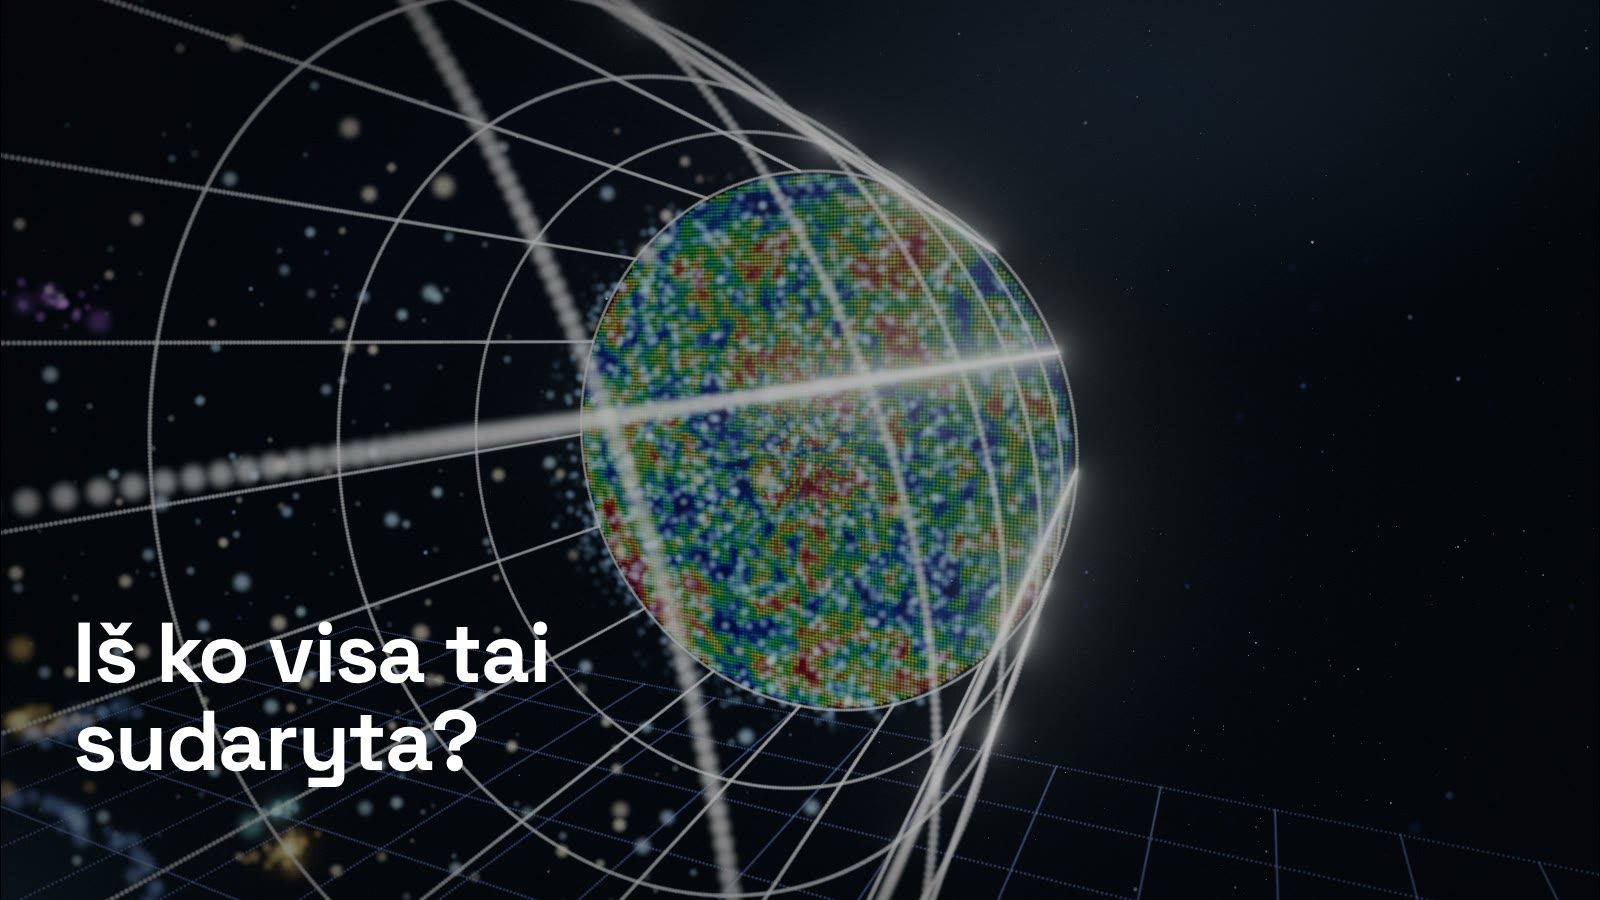
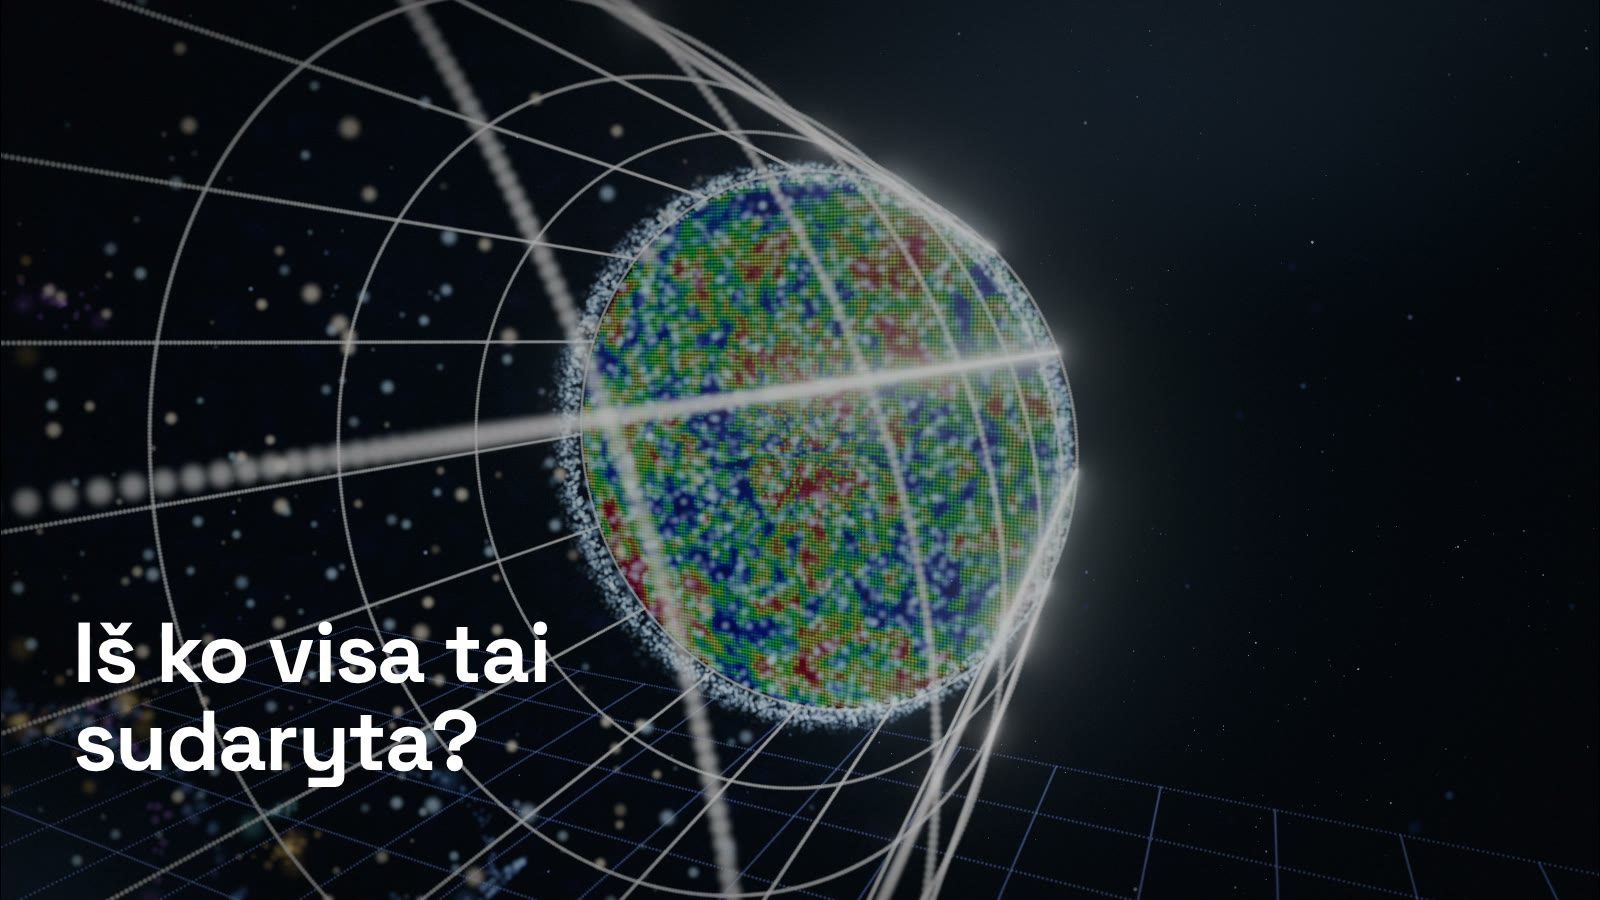
feat(innoday): funnel polish — a blue-violet haze inside, twice the galaxies and larger spirals, the CMB disk vivid at any angle (dimmed by the viewing angle so overlapping grains keep their colours), the afterglow as a bright ring, the caption a step smaller
Claude-Session: https://claude.ai/code/session_01UQ1VwcvdvqFoSGjGgE4EUj

diff --git a/talks/2026_10_00_Innoday/setup/funnel.js b/talks/2026_10_00_Innoday/setup/funnel.js
@@ -29,8 +29,8 @@ const hash = (n) => { const s = Math.sin(n * 12.9898 + 78.233) * 43758.5453; ret
 const gauss = (n) => { let v = 0; for (let k = 0; k < 4; k++) v += hash(n * 7.31 + k * 1.37); return (v - 2) / 1.15 }
 
 const VERT = /* glsl */ `
-attribute vec3 aColor; attribute float aSize, aSeed, aTw, aAlpha, aFlare;
-uniform float uTime, uPixelRatio, uSize, uAlpha, uFlare;
+attribute vec3 aColor; attribute float aSize, aSeed, aTw, aAlpha, aFlare, aDisk;
+uniform float uTime, uPixelRatio, uSize, uAlpha, uFlare, uDisk;
 varying vec3 vColor; varying float vAlpha;
 void main() {
   vec4 mv = modelViewMatrix * vec4(position, 1.0);
@@ -38,7 +38,7 @@ void main() {
   float tw = 1.0 - aTw * (0.5 - 0.5 * sin(uTime * (0.7 + aSeed * 1.9) + aSeed * 40.0));
   // capped at 48 px, fading out within a unit of the camera (the camera flies through)
   gl_PointSize = min(uPixelRatio * uSize * aSize * tw * (72.0 / max(-mv.z, 0.1)), 48.0 * uPixelRatio);
-  vColor = aColor; vAlpha = uAlpha * aAlpha * tw * smoothstep(0.25, 1.0, -mv.z) * mix(1.0, uFlare, aFlare);
+  vColor = aColor; vAlpha = uAlpha * aAlpha * tw * smoothstep(0.25, 1.0, -mv.z) * mix(1.0, uFlare, aFlare) * mix(1.0, uDisk, aDisk);
 }`
 const FRAG = /* glsl */ `
 varying vec3 vColor; varying float vAlpha;
@@ -106,7 +106,12 @@ function buildFunnel(o, ctx) {
     add(0.02, u * r, v * r, [0.6, 0.85, 0.5], 1.15, 0.05, 1, 1)
   }
   const capLast = pts.length
-  // the afterglow: a pale blue sheet just after the disk, fading
+  // the afterglow: a bright pale-blue ring at the wall just after the disk
+  for (let i = 0; i < 5200; i++) {
+    const s = 0.3 + 0.45 * Math.pow(hash(i * 6.1), 1.2), r = R(s) * (0.94 + 0.06 * hash(i * 3.9)), t = hash(i * 7.3) * Math.PI * 2
+    add(s, r * Math.cos(t), r * Math.sin(t), [0.7, 0.85, 1], 1.5, 0.1, 1.2 * (1 - (s - 0.3) / 0.45))
+  }
+  // and a faint pale-blue sheet across it
   for (let i = 0; i < 2600; i++) {
     const s = 0.15 + 1.2 * Math.pow(hash(i * 8.3), 1.5), r = R(s) * 0.97 * Math.sqrt(hash(i * 2.2)), t = hash(i * 9.1) * Math.PI * 2
     add(s, r * Math.cos(t), r * Math.sin(t), [0.66, 0.82, 1], 3.0, 0.12, 1.0 * (1 - (s - 0.15) / 1.2))
@@ -121,8 +126,15 @@ function buildFunnel(o, ctx) {
     const s = 5 + hash(i * 9.1) * 3, r = R(s) * 0.88 * Math.sqrt(hash(i * 6.3)), t = hash(i * 8.7) * Math.PI * 2
     add(s, r * Math.cos(t), r * Math.sin(t), hash(i) > 0.5 ? [0.75, 0.88, 1] : [1, 0.95, 0.85], 2.2, 0.6, 1)
   }
+  // the body: a faint blue-violet haze of fine grains inside the bell, thicker toward the mouth
+  for (let i = 0; i < 16000; i++) {
+    const q = Math.pow(hash(i * 2.17), 0.75), s = 5 + (L - 5.2) * q
+    const r = R(s) * 0.95 * Math.sqrt(hash(i * 5.31)), t = hash(i * 8.17) * Math.PI * 2
+    const c = hash(i * 1.71) < 0.55 ? [0.38, 0.45, 0.95] : [0.6, 0.4, 0.9]
+    add(s, r * Math.cos(t), r * Math.sin(t), c, 2.6, 0.05, 0.24 + 0.32 * q)
+  }
   // galaxies: colourful clusters, some larger spirals, denser and brighter toward the mouth
-  const G = o.galaxies ?? 1000
+  const G = o.galaxies ?? 2000
   const palette = [[0.55, 0.72, 1], [1, 1, 1], [1, 0.82, 0.45], [0.78, 0.6, 1], [0.6, 0.9, 1], [1, 0.65, 0.5]]
   for (let g = 0; g < G; g++) {
     const q = Math.pow(hash(g * 1.13), 0.6)                 // more of them toward the mouth
@@ -130,10 +142,10 @@ function buildFunnel(o, ctx) {
     const r = R(s) * 0.86 * Math.sqrt(hash(g * 2.71)), t = hash(g * 3.33) * Math.PI * 2
     const cy = r * Math.cos(t), cz = r * Math.sin(t)
     const col = palette[Math.floor(hash(g * 4.4) * palette.length)]
-    const bright = 0.8 + 0.2 * q
-    const spiral = hash(g * 7.7) < 0.12, big = spiral ? 0.35 + 0.35 * hash(g * 5.5) : 0.08 + 0.18 * hash(g * 5.5)
+    const bright = 0.55 + 0.4 * q
+    const spiral = hash(g * 7.7) < 0.18, big = spiral ? 0.45 + 0.55 * hash(g * 5.5) : 0.08 + 0.18 * hash(g * 5.5)
     const tilt = hash(g * 6.6) * Math.PI, turn = hash(g * 8.8) * Math.PI * 2
-    const per = spiral ? 160 : 28
+    const per = spiral ? 220 : 26
     for (let k = 0; k < per; k++) {
       let dx, dy
       if (spiral) {   // two arms
@@ -144,7 +156,7 @@ function buildFunnel(o, ctx) {
         const a = hash(g * 31 + k * 7.1) * Math.PI * 2, rr = big * Math.pow(hash(g * 17 + k * 3.7), 1.6)
         dx = rr * Math.cos(a); dy = rr * Math.sin(a)
       }
-      add(s + dx, cy + dy * Math.cos(tilt), cz + dy * Math.sin(tilt), col, k < 3 ? 4.0 : 1.1, 0.3, bright)
+      add(s + dx, cy + dy * Math.cos(tilt), cz + dy * Math.sin(tilt), col, k < 3 ? 3.0 : 0.85, 0.3, bright)
     }
   }
   // the floor: a faint perspective grid below the funnel
@@ -157,23 +169,23 @@ function buildFunnel(o, ctx) {
 
   // into world space along the axis
   const N = pts.length, pos = new Float32Array(N * 3), color = new Float32Array(N * 3)
-  const size = new Float32Array(N), seed = new Float32Array(N), tw = new Float32Array(N), al = new Float32Array(N), fl = new Float32Array(N)
+  const size = new Float32Array(N), seed = new Float32Array(N), tw = new Float32Array(N), al = new Float32Array(N), fl = new Float32Array(N), dk = new Float32Array(N)
   const axis = o.axis || 'z+'
   // (s, a, b) → world: a is up (y) for the floor to lie flat; b runs across
   const place = (s, a, b) => axis === 'z-' ? [b, a, -s] : axis === 'z+' ? [b, a, s] : axis === 'x-' ? [-s, a, b] : [s, a, b]
   pts.forEach((p, i) => {
     pos.set(place(p[0], p[1], p[2]), i * 3); color.set([p[3], p[4], p[5]], i * 3)
-    size[i] = p[6]; tw[i] = p[7]; al[i] = p[8]; fl[i] = p[10]; seed[i] = hash(i * 0.731)
+    size[i] = p[6]; tw[i] = p[7]; al[i] = p[8]; fl[i] = p[10]; dk[i] = p[9] === 1 ? 1 : 0; seed[i] = hash(i * 0.731)
   })
   const geo = new BufferGeometry()
   geo.setAttribute('position', new BufferAttribute(pos, 3))
   const colAttr = new BufferAttribute(color, 3)
   geo.setAttribute('aColor', colAttr); geo.setAttribute('aSize', new BufferAttribute(size, 1))
   geo.setAttribute('aSeed', new BufferAttribute(seed, 1)); geo.setAttribute('aTw', new BufferAttribute(tw, 1))
-  geo.setAttribute('aAlpha', new BufferAttribute(al, 1)); geo.setAttribute('aFlare', new BufferAttribute(fl, 1))
+  geo.setAttribute('aAlpha', new BufferAttribute(al, 1)); geo.setAttribute('aFlare', new BufferAttribute(fl, 1)); geo.setAttribute('aDisk', new BufferAttribute(dk, 1))
   const mat = new ShaderMaterial({
     vertexShader: VERT, fragmentShader: FRAG, transparent: true, depthWrite: false, depthTest: false, blending: AdditiveBlending,
-    uniforms: { uTime: { value: 0 }, uPixelRatio: { value: Math.min(devicePixelRatio || 1, 2) }, uSize: { value: o.size ?? 1 }, uAlpha: { value: o.alpha ?? 0.6 }, uFlare: { value: 1 } },
+    uniforms: { uTime: { value: 0 }, uPixelRatio: { value: Math.min(devicePixelRatio || 1, 2) }, uSize: { value: o.size ?? 1 }, uAlpha: { value: o.alpha ?? 0.6 }, uFlare: { value: 1 }, uDisk: { value: 1 } },
   })
   const points = new Points(geo, mat); points.frustumCulled = false
   const g = new Group(); g.add(points)
@@ -191,6 +203,10 @@ function buildFunnel(o, ctx) {
     const sAx = along(cam), off = across(cam)
     const k = sAx <= 0 ? 1 : Math.min(1, Math.max(0, (off / sAx - 0.6) / 0.3))
     mat.uniforms.uFlare.value = 0.06 + 0.94 * k * k * (3 - 2 * k)
+    // the CMB disk seen at an angle: its grains overlap in projection and add up
+    // toward white, so it dims with the angle and keeps its colours
+    const face = Math.abs(sAx) / Math.max(Math.hypot(sAx, off), 1e-3)
+    mat.uniforms.uDisk.value = 0.6 + 0.4 * face
   }
 
   // the disk's colours from the map: the hemisphere seen from the mouth,
@@ -210,7 +226,9 @@ function buildFunnel(o, ctx) {
       const px = Math.min(c.width - 1, Math.floor(((lon + Math.PI) / (2 * Math.PI)) * c.width))
       const py = Math.min(c.height - 1, Math.floor(((Math.PI / 2 - lat) / Math.PI) * c.height))
       const k = (py * c.width + px) * 4
-      color.set([data[k] / 255, data[k + 1] / 255, data[k + 2] / 255], i * 3)
+      // saturate and lift: the additive gamma greys mid colours from far away
+      const rr = data[k] / 255, gg = data[k + 1] / 255, bl = data[k + 2] / 255, m = (rr + gg + bl) / 3, sat = 1.5, lift = 1.0
+      color.set([Math.min(1, (m + (rr - m) * sat) * lift), Math.min(1, (m + (gg - m) * sat) * lift), Math.min(1, (m + (bl - m) * sat) * lift)], i * 3)
     }
     colAttr.needsUpdate = true
   }

diff --git a/talks/2026_10_00_Innoday/styles/index.css b/talks/2026_10_00_Innoday/styles/index.css
@@ -343,3 +343,7 @@ html[data-stage] .hero.dim > img { filter: brightness(0.78) contrast(1.06) satur
 
 /* a world caption at the top left, where a wide form fills the lower frame (the funnel) */
 html[data-stage] .world-caption.top { top: 52px !important; bottom: auto !important; }
+
+/* a step smaller: the funnel slide's line stays clear of the form */
+html[data-stage] .world-caption.narrow.small h1 { font-size: 34px !important; line-height: 1.12 !important; }
+html[data-stage] .world-caption.narrow.small { max-width: 32%; }

diff --git a/talks/2026_10_00_Innoday/deck.md b/talks/2026_10_00_Innoday/deck.md
@@ -97,7 +97,7 @@ space: { at: [30, 39, -119], dist: 25, yaw: -72, pitch: 13, dim: 0, flight: 3.5 
 <PrintStill src="stills/04.jpg" />
 
 <AfterFlight :delay="3.4">
-<div class="world-caption narrow">
+<div class="world-caption narrow small">
 
 # 13,8 mlrd. metų nuo Didžiojo sprogimo
 
